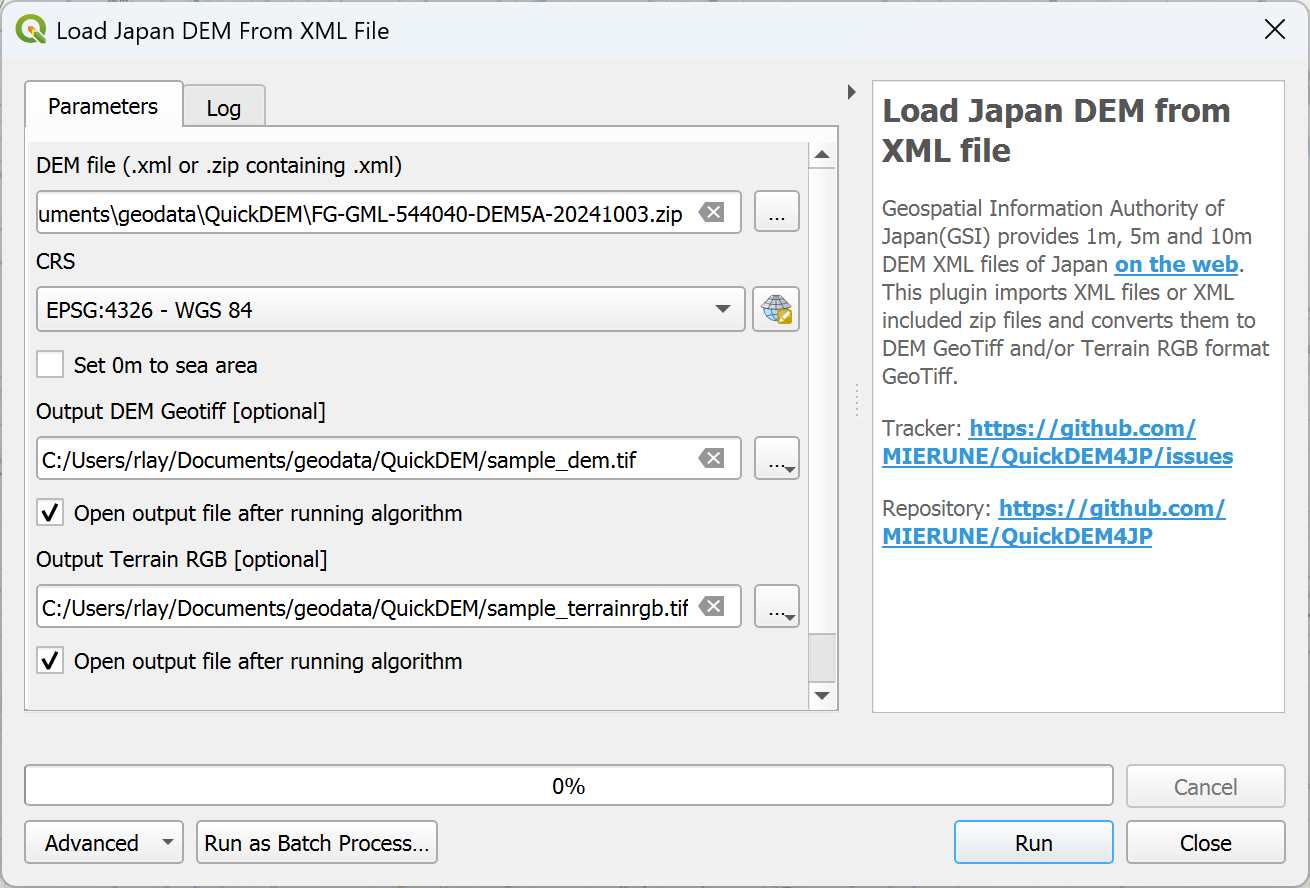
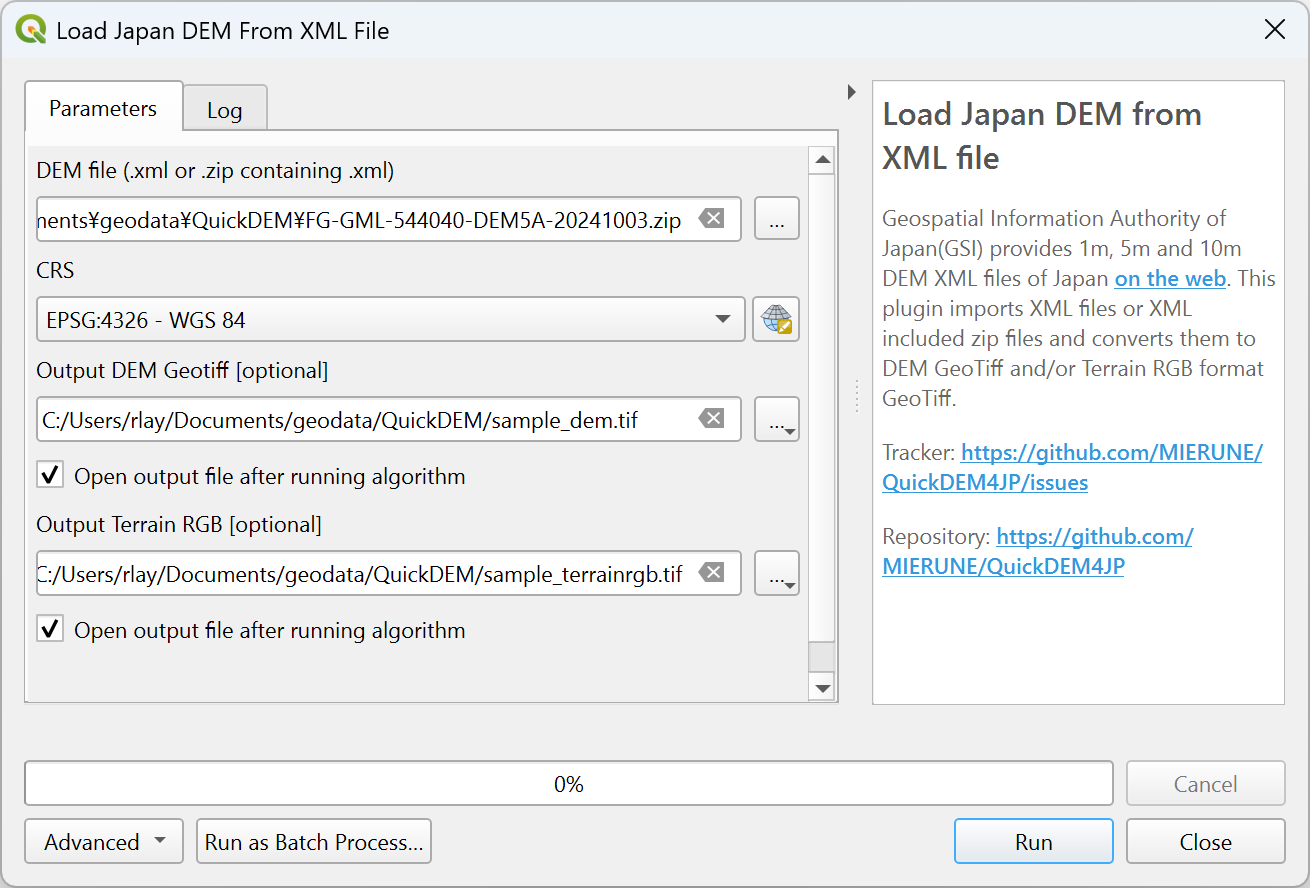
Update readme

diff --git a/README.md b/README.md
@@ -24,7 +24,6 @@ You can find the DEM data in XML format for any location on the following site: 
 - Set the following parameters:
   - Input DEM data in XML file, or ZIP file containing XML files (required)
   - Output CRS (required)
-  - Set 0m to sea area : area specified with "sea" in input data will be set at 0m instead No data if this option is checked.  
   - Output DEM GeoTIFF file
   - Output Terrain RGB file
 - Click OK to run.
@@ -52,7 +51,6 @@ https://service.gsi.go.jp/kiban/app/map/?search=dem
 - 以下のパラメータを設定
   - 入力DEMデータ：XMLファイル、またはXMLファイルを含むZIPファイル（必須）
   - 出力座標系（必須）
-  - 海域標高を0mに設定：このオプションがチェックされていると、入力データで「海水面」と「海水底面」と指定されているエリアはNoDataではなく0mに設定される
   - GeoTIFF形式の出力ファイル
   - Terrain RGBの出力ファイル
 - 「OK」をクリックして実行
